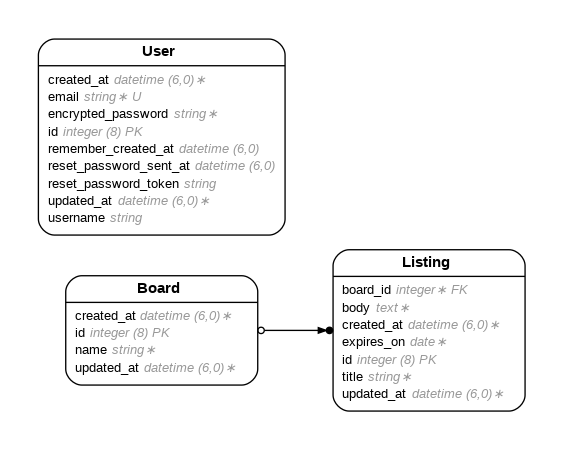
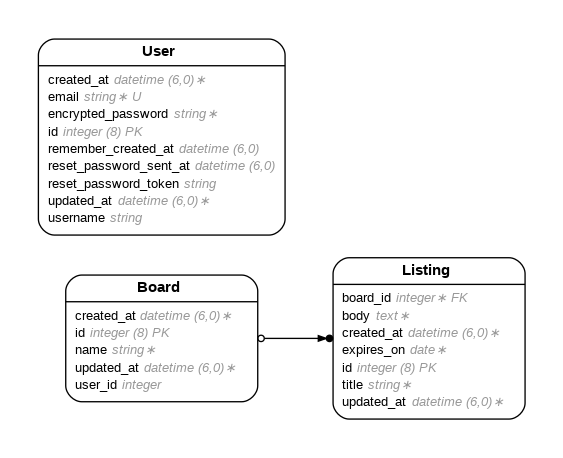
added user id collumn to boards

diff --git a/db/schema.rb b/db/schema.rb
@@ -10,7 +10,7 @@
 #
 # It's strongly recommended that you check this file into your version control system.
 
-ActiveRecord::Schema[8.0].define(version: 2025_09_22_205620) do
+ActiveRecord::Schema[8.0].define(version: 2025_09_22_211700) do
   # These are extensions that must be enabled in order to support this database
   enable_extension "pg_catalog.plpgsql"
 
@@ -18,6 +18,7 @@ ActiveRecord::Schema[8.0].define(version: 2025_09_22_205620) do
     t.string "name"
     t.datetime "created_at", null: false
     t.datetime "updated_at", null: false
+    t.integer "user_id"
   end
 
   create_table "listings", force: :cascade do |t|

diff --git a/app/models/board.rb b/app/models/board.rb
@@ -6,6 +6,7 @@
 #  name       :string
 #  created_at :datetime         not null
 #  updated_at :datetime         not null
+#  user_id    :integer
 #
 class Board < ApplicationRecord
   validates :name, presence: true

diff --git a/db/migrate/20250922211700_add_user_id_to_boards.rb b/db/migrate/20250922211700_add_user_id_to_boards.rb
@@ -1,0 +1,5 @@
+class AddUserIdToBoards < ActiveRecord::Migration[8.0]
+  def change
+    add_column :boards, :user_id, :integer
+  end
+end
